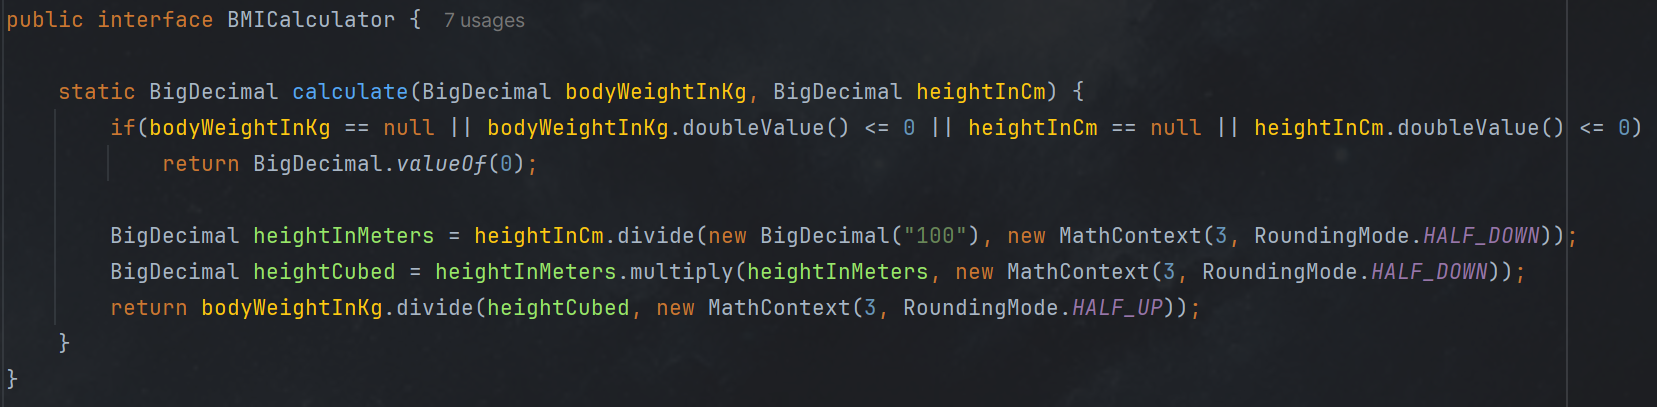
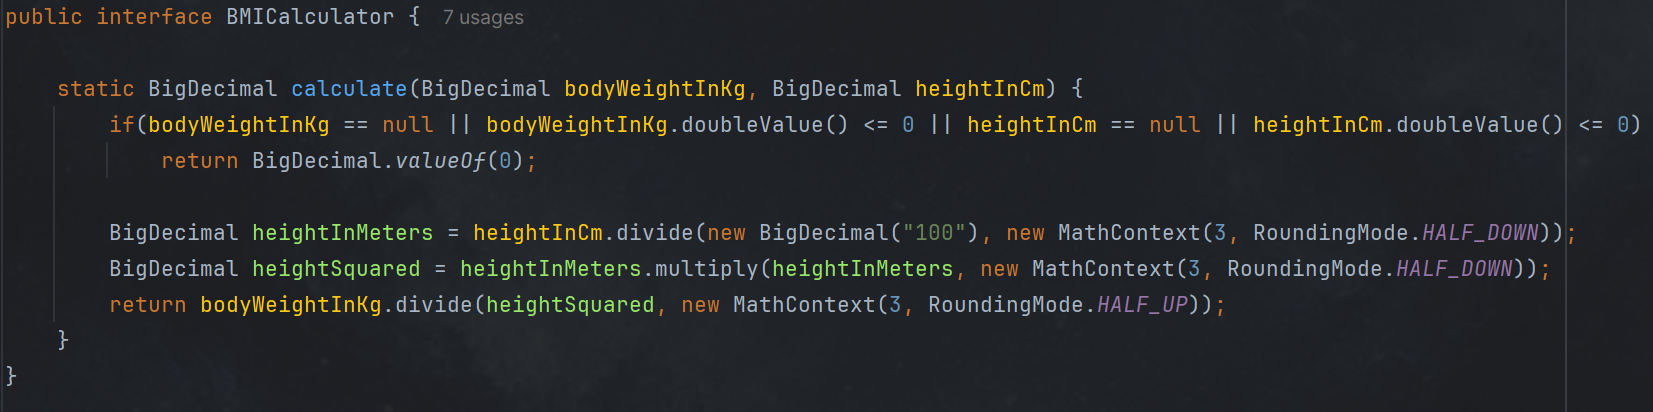
Fixed naming issue where I perform squering and named it cubing. Changed also the screenshot

diff --git a/backend/backend/src/main/java/org/ectimel/dietgenerator/domain/calculator/bmi/BMICalculator.java b/backend/backend/src/main/java/org/ectimel/dietgenerator/domain/calculator/bmi/BMICalculator.java
@@ -11,8 +11,8 @@ public interface BMICalculator {
             return BigDecimal.valueOf(0);
 
         BigDecimal heightInMeters = heightInCm.divide(new BigDecimal("100"), new MathContext(3, RoundingMode.HALF_DOWN));
-        BigDecimal heightCubed = heightInMeters.multiply(heightInMeters, new MathContext(3, RoundingMode.HALF_DOWN));
-        return bodyWeightInKg.divide(heightCubed, new MathContext(3, RoundingMode.HALF_UP));
+        BigDecimal heightSquared = heightInMeters.multiply(heightInMeters, new MathContext(3, RoundingMode.HALF_DOWN));
+        return bodyWeightInKg.divide(heightSquared, new MathContext(3, RoundingMode.HALF_UP));
     }
 }
 
